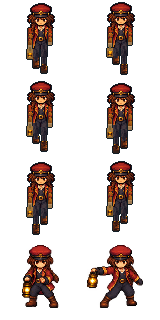
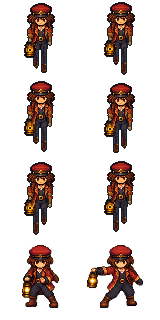
Give Nell her own contoured clothing and carrying pose

diff --git a/src/art/nell-actor.ts b/src/art/nell-actor.ts
@@ -1,15 +1,14 @@
 import { type ActorDirection } from '../content/actors';
-import { project, type Point3 } from './actor-space';
+import { orient, project, type Point3 } from './actor-space';
 import { renderLayers, type PixelTexture, type SpriteLayer } from './layered-sprite';
-import { referenceRig, weaponPoint, type ReferencePose, type WeaponPose } from './reference-rig';
-import { REFERENCE_FRAMES } from './walk-cycle';
-import { referenceLayers } from '../dev/reference-actor';
+import { FOREARM_LENGTH, referenceRig, UPPER_ARM_LENGTH, type ReferencePose, type WeaponPose } from './reference-rig';
+import { footPoint, REFERENCE_FRAMES, type FootPose } from './walk-cycle';
 
 export const NELL_LEG_LENGTH=12;
 export const NELL_HIP_DROP=5.8;
 export type NellTextures=Record<ActorDirection,PixelTexture>;
 
-/** Retarget only limb proportions. Keep the reference's feet, contacts and 40-pixel stride. */
+/** Retarget Nell's proportions and carry pose; retain the reference's foot contacts and stride. */
 export function nellPose(phase:number):ReferencePose {
   const pose=referenceRig(phase,'lantern'),drop=NELL_HIP_DROP;
   pose.hipHeight-=drop;
@@ -19,6 +18,11 @@ export function nellPose(phase:number):ReferencePose {
     leg.knee={x:leg.hip.x,y:dy/2-dz/d*bend,z:(leg.hip.z+leg.ankle.z)/2+dy/d*bend};
     for(const joint of ['shoulder','elbow','wrist','grip'] as const)pose.arms[side][joint]={...pose.arms[side][joint],z:pose.arms[side][joint].z-drop};
   }
+  // Nell carries her full-sized lantern at her waist with a bent elbow.
+  const arm=pose.arms.right;arm.grip={...arm.grip,z:arm.grip.z+6};arm.wrist={...arm.grip,z:arm.grip.z+1.6};
+  const dy=arm.wrist.y-arm.shoulder.y,dz=arm.wrist.z-arm.shoulder.z,d=Math.hypot(dy,dz);
+  const along=(UPPER_ARM_LENGTH**2-FOREARM_LENGTH**2+d*d)/(2*d),bend=Math.sqrt(UPPER_ARM_LENGTH**2-along*along);
+  arm.elbow={x:arm.shoulder.x,y:arm.shoulder.y+along*dy/d+bend*dz/d,z:arm.shoulder.z+along*dz/d-bend*dy/d};
   pose.weapon={...pose.weapon!,grip:pose.arms.right.grip};
   return pose;
 }
@@ -53,26 +57,72 @@ function decal(id:string,texture:PixelTexture,rect:readonly[number,number,number
     faces:[{points:[0,1,2,3],color:0xffffff,unlit:true,texture,uv:[{u:x,v:y},{u:x+w,v:y},{u:x+w,v:y+h},{u:x,v:y+h}]}]};
 }
 
-function cloth(layer:SpriteLayer,a:Point3,b:Point3,texture:PixelTexture):SpriteLayer {
-  const dy=b.y-a.y,dz=b.z-a.z,d=Math.hypot(dy,dz),xs=layer.vertices.map(p=>p.x),x0=Math.min(...xs),width=Math.max(...xs)-x0;
-  const across=(p:Point3)=>(-dz*(p.y-a.y)+dy*(p.z-a.z))/d;
-  const edge=Math.max(...layer.vertices.map(p=>Math.abs(across(p))));
-  for(const [index,face] of layer.faces.entries()){
-    face.texture=texture;face.unlit=true;
-    face.uv=face.points.map(i=>{const p=layer.vertices[i];return {u:(index<2?(across(p)/edge+1)/2:(p.x-x0)/width)*texture.width,
-      v:((p.y-a.y)*dy+(p.z-a.z)*dz)/(d*d)*texture.height};});
+interface SkinVertex { point:Point3;u:number;v:number }
+const ROUND_SIDES=12;
+
+/** A contoured skin surface, independent of the mannequin's rectangular parts. */
+function surface(id:string,rings:SkinVertex[][],color:number,texture?:PixelTexture):SpriteLayer {
+  const samples=rings.flat(),count=rings[0].length,faces:SpriteLayer['faces']=[];
+  const face=(points:number[])=>faces.push({points,color,texture,unlit:!!texture,uv:texture?points.map(i=>({u:samples[i].u,v:samples[i].v})):undefined});
+  for(let ring=0;ring<rings.length-1;ring++)for(let j=0;j<count;j++){
+    const next=(j+1)%count,a=ring*count,b=(ring+1)*count;face([a+j,a+next,b+next,b+j]);
   }
+  face(Array.from({length:count},(_,i)=>count-1-i));face(Array.from({length:count},(_,i)=>(rings.length-1)*count+i));
+  return {id,vertices:samples.map(s=>s.point),faces};
+}
+
+const acrossView=(direction:ActorDirection,c:number,s:number)=>direction==='front'?-c:direction==='back'?c:direction==='left'?-s:s;
+
+function limb(id:string,a:Point3,b:Point3,start:readonly[number,number],end:readonly[number,number],texture:PixelTexture,direction:ActorDirection):SpriteLayer {
+  const dy=b.y-a.y,dz=b.z-a.z,d=Math.hypot(dy,dz),ny=-dz/d,nz=dy/d;
+  const stations=[[-.09,.15],[0,.85],[.2,1.05],[.55,1],[.85,.98],[1,.8],[1.09,.15]] as const;
+  return surface(id,stations.map(([t,round])=>Array.from({length:ROUND_SIDES},(_,i)=>{
+    const angle=i/ROUND_SIDES*Math.PI*2,c=Math.cos(angle),s=Math.sin(angle),at=Math.max(0,Math.min(1,t));
+    const rx=(start[0]+(end[0]-start[0])*at)*round,ry=(start[1]+(end[1]-start[1])*at)*round;
+    return {point:{x:a.x+c*rx,y:a.y+dy*t+s*ry*ny,z:a.z+dz*t+s*ry*nz},
+      u:(acrossView(direction,c,s)+1)/2*texture.width,v:at*texture.height};
+  })),0xffffff,texture);
+}
+
+function rounded(id:string,center:Point3,radii:readonly[number,number,number],color:number):SpriteLayer {
+  const rings=Array.from({length:7},(_,row)=>{
+    const v=row/6,ring=Math.max(.04,Math.sin(v*Math.PI));
+    return Array.from({length:ROUND_SIDES},(_,i)=>{const angle=i/ROUND_SIDES*Math.PI*2;
+      return {point:{x:center.x+Math.cos(angle)*radii[0]*ring,y:center.y+Math.sin(angle)*radii[1]*ring,z:center.z+Math.cos(v*Math.PI)*radii[2]},u:0,v:0};});
+  });
+  return surface(id,rings,color);
+}
+
+function shoe(side:'left'|'right',foot:FootPose,texture:PixelTexture,direction:ActorDirection):SpriteLayer {
+  // Rounded heel, close ankle, raised instep and a low tapered toe. The two
+  // sole contact endpoints remain at the accepted heel/toe pivots.
+  const stations=[[-4,1.1,0,3.5],[-3.2,1.85,0,5.4],[-1.5,2.2,.05,6],[0,2.15,.15,5.4],[2.5,2.3,.15,4.1],[5.2,2.4,0,3.5],[6.9,1.6,0,2.8],[8,.3,0,1.5]] as const;
+  const height=Math.max(...stations.map(station=>station[3]));
+  const layer=surface(`${side}-foot`,stations.map(([y,width,bottom,top])=>Array.from({length:ROUND_SIDES},(_,i)=>{
+    const angle=i/ROUND_SIDES*Math.PI*2,x=Math.cos(angle)*width,z=(bottom+top)/2+Math.sin(angle)*(top-bottom)/2;
+    const p=footPoint(foot,y,z);p.x+=x;
+    const u=direction==='front'?-x/5+.5:direction==='back'?x/5+.5:direction==='left'?1-(y+4)/12:(y+4)/12;
+    return {point:p,u:u*texture.width,v:(1-z/height)*texture.height};
+  })),0xffffff,texture);
+  for(const face of layer.faces)if(face.uv!.every(p=>p.v>texture.height*.82)){face.texture=undefined;face.color=0x39251f;face.unlit=false;}
   return layer;
 }
 
-function cage(weapon:WeaponPose):SpriteLayer[]{
-  const result:SpriteLayer[]=[];
-  for(const x of [-2.5,2.5])for(const y of [-2.5,2.5]){
-    const vertices:Point3[]=[];
-    for(const z of [-10,-5])for(const dx of [-.4,.4])for(const dy of [-.4,.4])vertices.push(weaponPoint(weapon,y+dy,z,x+dx));
-    result.push({id:'right-weapon',vertices,faces:[[0,1,3,2],[4,5,7,6],[0,1,5,4],[2,3,7,6],[0,2,6,4],[1,3,7,5]].map(points=>({points,color:0x9f6a2d}))});
+function lantern(weapon:WeaponPose,source:PixelTexture,direction:ActorDirection):SpriteLayer[]{
+  const regions:Record<ActorDirection,readonly[number,number,number,number,number,number]>={front:[22,42,11,17,27,40],left:[28,45,7,14,31,42],right:[44,43,10,16,47,40],back:[46,43,11,16,51,41]};
+  const [x,y,width,height,gx,gy]=regions[direction],texture={...source,pixels:new Uint8ClampedArray(source.pixels)};
+  for(let row=0;row<80;row++)for(let col=0;col<80;col++){
+    const at=(row*80+col)*4,r=texture.pixels[at],g=texture.pixels[at+1],b=texture.pixels[at+2];
+    const warm=r>g*1.08&&r<g*3.5&&g>b*1.05,dark=Math.max(r,g,b)<40;
+    if(col<x||col>=x+width||row<y||row>=y+height||(!warm&&!dark))texture.pixels[at+3]=0;
   }
-  return result;
+  const grip=project(weapon.grip,direction),depth=orient(weapon.grip,direction).y;
+  const mesh=decal('right-weapon',texture,[x,y,width,height],0,depth,direction),c=Math.cos(weapon.pitch),s=Math.sin(weapon.pitch);
+  mesh.vertices=[[x,y],[x+width,y],[x+width,y+height],[x,y+height]].map(([sx,sy])=>{
+    const p=viewPoint(grip.x+sx-gx,grip.y+sy-gy,depth,direction),dy=p.y-weapon.grip.y,dz=p.z-weapon.grip.z;
+    return {x:p.x,y:weapon.grip.y+dy*c-dz*s,z:weapon.grip.z+dy*s+dz*c};
+  });
+  return [mesh];
 }
 
 /** Directional native pixels supply identity; joint geometry supplies every moving limb. */
@@ -85,32 +135,22 @@ export function nellLayers(pose:ReferencePose,direction:ActorDirection,textures:
     if(!hair)head.pixels[at+3]=0;
   }
   const trousers=patch(source,37,45,6,10,(r,g,b)=>r<g*1.4&&b>r*.8),sleeve=patch(source,direction==='right'?33:29,30,4,10,(r,g,b)=>r>g*1.7&&r>b*1.4&&r>65),boot=patch(source,37,58,6,9,(r,g,b)=>r>g*1.2&&g>b*1.1);
-  const lampRect:Record<ActorDirection,readonly[number,number,number,number]>={front:[23,47,8,10],left:[29,47,5,8],right:[45,47,8,10],back:[48,48,7,9]};
-  const lamp=patch(source,...lampRect[direction],(r,g,b)=>r>g*1.1&&g>b*1.1);
   // Keep cuffs visible and give the lower shin a boot shaft.
   const shin={...trousers,pixels:new Uint8ClampedArray(trousers.pixels)};
   for(let y=6;y<10;y++)for(let x=0;x<6;x++)shin.pixels.set(boot.pixels.subarray(((y-6)*6+x)*4,((y-6)*6+x)*4+4),(y*6+x)*4);
-  const layers=referenceLayers(pose,false).filter(layer=>layer.id!=='head'&&layer.id!=='torso');
-  for(const layer of layers){
-    const side=layer.id.startsWith('left-')?'left':'right',leg=pose[side],arm=pose.arms[side];
-    if(layer.id.endsWith('-thigh'))cloth(layer,leg.hip,leg.knee,trousers);
-    else if(layer.id.endsWith('-shin'))cloth(layer,leg.knee,leg.ankle,shin);
-    else if(layer.id.endsWith('-upper-arm'))cloth(layer,arm.shoulder,arm.elbow,sleeve);
-    else if(layer.id.endsWith('-forearm'))cloth(layer,arm.elbow,arm.wrist,sleeve);
-    else if(layer.id.endsWith('-hand'))for(const face of layer.faces)face.color=0xc59a68;
-    else if(layer.id.endsWith('-foot')||layer.id==='right-weapon'){
-      for(const face of layer.faces){
-        if(face.color===0x38434b){face.color=0x39251f;continue;}
-        if(layer.id==='right-weapon'&&face.color!==0xffd57d)continue;
-        const texture=layer.id==='right-weapon'?lamp:boot;
-        const projected=layer.vertices.map(p=>project(p,direction)),xx=projected.map(p=>p.x),yy=projected.map(p=>p.y),x0=Math.min(...xx),y0=Math.min(...yy),w=Math.max(...xx)-x0,h=Math.max(...yy)-y0;
-        face.texture=texture;face.unlit=true;face.uv=face.points.map(i=>({u:(projected[i].x-x0)/w*texture.width,v:(projected[i].y-y0)/h*texture.height}));
-      }
-    }
+  const layers:SpriteLayer[]=[];
+  for(const side of ['left','right'] as const){
+    const leg=pose[side],arm=pose.arms[side],inside=side==='right'?-1:1;
+    layers.push(limb(`${side}-thigh`,leg.hip,leg.knee,[2.8,2.6],[1.9,1.9],trousers,direction),
+      limb(`${side}-shin`,leg.knee,leg.ankle,[1.95,1.85],[1.7,1.55],shin,direction),shoe(side,leg.foot,boot,direction),
+      limb(`${side}-upper-arm`,arm.shoulder,arm.elbow,[2.1,2.05],[1.6,1.55],sleeve,direction),
+      limb(`${side}-forearm`,arm.elbow,arm.wrist,[1.65,1.55],[1.2,1.15],sleeve,direction),
+      rounded(`${side}-hand`,arm.grip,[1.45,1.3,1.65],0xc59a68),
+      rounded(`${side}-hand`,{x:arm.grip.x+inside*1.1,y:arm.grip.y+.7,z:arm.grip.z+.2},[.65,.75,.85],0xb38758));
   }
   const dy=30.3-(pose.hipHeight+NELL_HIP_DROP),bodyRect:readonly[number,number,number,number]=direction==='front'||direction==='back'?[33,27,14,22]:[34,27,12,22];
   layers.push(decal('torso',source,bodyRect,dy,4,direction),decal('head',head,[20,0,40,43],dy,7,direction));
-  layers.push(...cage(pose.weapon!));
+  layers.push(...lantern(pose.weapon!,source,direction));
   return layers;
 }
 export const renderNell=(frame:number,direction:ActorDirection,textures:NellTextures)=>renderLayers(nellLayers(nellFrame(frame),direction,textures),direction);

diff --git a/assets/characters/nell-rig.md b/assets/characters/nell-rig.md
@@ -1,8 +1,12 @@
 # Nell's reference-based walk
 
-`src/art/nell-actor.ts` skins the accepted mannequin rig. `nellPose` keeps its foot positions, heel/toe rotations and 40-pixel root travel, retargets both leg bones to 12 pixels, lowers the hips by 5.8 pixels, then solves forward-bending knees. Arm lengths and the right-hand lantern attachment remain rigid. Her face and costume retain the original compact proportions.
+`src/art/nell-actor.ts` uses the accepted reference's joint motion with Nell's own artwork geometry. `nellPose` keeps its foot positions, heel/toe rotations and 40-pixel root travel, retargets both leg bones to 12 pixels, lowers the hips by 5.8 pixels, then solves forward-bending knees. Her right grip sits six pixels higher than the lowered reference grip; a second arm solve keeps the 9/8-pixel bones rigid while bending her elbow to carry the full-sized lantern at her waist. The weapon remains attached to the right grip in every view.
 
-The four existing `public/art/nell*.png` idle actors supply independent directional skins. The exporter prepares four 80 x 80 skins in `assets/characters/nell-skin/`, copying source RGB and setting alpha to 0 or 255 at the existing 128 threshold. Both the workshop and exporter use these canonical pixels, avoiding canvas premultiplication rounding at partially transparent edges. Head/cap/face pixels keep their native size and move together vertically with the hips. Masked braid pixels remain attached to the head; the central jacket/overalls retain the original torso details. Moving upper arms, forearms, thighs, shins and boots are textured from small garment patches. Transparent samples in these solid material patches use the nearest valid garment sample. The lantern has native warm glass pixels and modeled brass cage bars. No direction is mirrored.
+Nell does not use the mannequin's rectangular limb, hand, foot or weapon meshes. Her clothing is built from rounded cross-sections with separate shoulder, upper-arm, elbow, forearm, thigh, calf and ankle contours. Rounded ends overlap at joints. Sleeves and trouser legs taper toward wrists and ankles. Gloves have rounded palms and separate thumbs. Boots have a narrow heel, raised instep, curved sole and a low rounded toe; both contact endpoints retain the accepted heel/toe pivots. These contours affect only the artwork, not bone lengths or foot contact timing.
+
+The four existing `public/art/nell*.png` idle actors supply independent directional skins. The exporter prepares four 80 x 80 skins in `assets/characters/nell-skin/`, copying source RGB and setting alpha to 0 or 255 at the existing 128 threshold. Both the workshop and exporter use these canonical pixels, avoiding canvas premultiplication rounding at partially transparent edges. Head/cap/face pixels keep their native size and move together vertically with the hips. Masked braid pixels remain attached to the head; the central jacket/overalls retain the original torso details. Moving upper arms, forearms, thighs, shins and boots are textured from small garment patches. Transparent samples in these solid material patches use the nearest valid garment sample.
+
+The lantern uses the original per-view native artwork, with a registered source grip and a mask excluding adjacent clothing. Its textured plane attaches at the right grip and rotates around it with the weapon's pitch. Its existing brass frame, glass, flame and handle retain the source's pixel shapes instead of inheriting the placeholder's box geometry. Depth-buffer occlusion hides the far-side tool naturally. No direction is mirrored.
 
 `src/art/layered-sprite.ts` supports nearest-neighbor textured faces alongside solid materials. Texture alpha participates in the depth buffer: transparent head/costume pixels leave farther limbs visible, while the near arm can occlude the torso. Source RGB values are copied without blending or palette reduction. The assembled silhouette receives the same one-pixel outline as the reference.
 

diff --git a/assets/characters/animation.md b/assets/characters/animation.md
@@ -2,7 +2,7 @@
 
 Nell's walk is baked from the accepted layered reference with her original native face, cap, braids and costume pixels attached as a skin. Orrin retains his generated directional walk art. Idle actors and portraits remain unchanged. Each direction has one 160 x 320 PNG page containing eight 80 x 80 frames. Frames 0–5 are a complete six-frame walk: left contact, left support, right passing, right contact, right support, left passing. Frames 6–7 retain the existing native wind-up/contact artwork. Ground anchor remains (40, 68). Neither side view is mirrored; equipment stays in the right hand through every pose.
 
-`animation-sources.json` records Nell's rig/exporter, Orrin's selected six-pose sources and the original attack sources. Nell's deterministic authoring source is `src/art/nell-actor.ts`: twelve-pixel leg bones retarget her compact proportions while keeping the reference's foot targets, heel/toe roll, right-hand grip and 40-pixel stride. The textured native renderer samples source pixels without blending; transparent texels do not hide farther parts. Face, costume and braid pixels come from the four existing native idle sprites, with no new source atlas or downsampling of the face. See `nell-rig.md` for the layer/material recipe.
+`animation-sources.json` records Nell's rig/exporter, Orrin's selected six-pose sources and the original attack sources. Nell's deterministic authoring source is `src/art/nell-actor.ts`: twelve-pixel leg bones retarget her compact proportions while keeping the reference's foot targets, heel/toe roll and 40-pixel stride. Her own rounded, tapered clothing/glove/boot meshes follow those joints; the mannequin's block geometry is not used. A bent right elbow holds the original native lantern artwork at waist height. The textured native renderer samples source pixels without blending; transparent texels do not hide farther parts. Face, costume and braid pixels come from the four existing native idle sprites, with no new source atlas or downsampling of the face. See `nell-rig.md` for the layer/material recipe.
 
 Run `node scripts/export-nell-animation.mjs` to rebuild Nell's four native pages from the rig and idle skins. It requires the existing development dependencies plus Python/Pillow and preserves the final native attack row verbatim. The Animation workshop's **Nell** skin uses the same geometry, textures and renderer, with independently visible/exportable body, limb and weapon layers. Gameplay consumes only the baked PNGs.
 

diff --git a/AGENTS.md b/AGENTS.md
@@ -45,3 +45,5 @@ The sprite workshop catalog includes every registered NPC plus the combat enemy 
 The Vite-only Animation panel (`?dev=animation`) contains a layered reference, separate from story characters. Its fixed parts, named joints and deterministic six-pose gait are the starting point for future character animation. Feet have shaped uppers and soles, rotating from heel strike to flat support to toe-off. Keep both 15-pixel leg bones rigid, the active heel/toe contact fixed in world space, both sole ends above the floor, at least one foot supporting weight, and anatomical sides invariant across views. Arms have separate upper-arm/forearm/hand layers, rigid 9/8-pixel bones and named shoulder/elbow/wrist/grip joints. Unarmed, Nell lantern and Orrin steam-lance presets use the same body; weapons attach only to the anatomical right grip, with depth-buffer occlusion in all four views. Do not mirror or swap attachment sides. The Arms and weapon toggle restores the accepted armless reference. Source/model notes live in `assets/characters/reference-animation.md`. Native PNG exports honor layer visibility and identify the weapon preset; pose JSON includes root travel, leg/arm joints, foot landmarks/pitch/contact state and the right-hand weapon attachment. This panel never writes saves or builds and must be absent from production.
 
 The twelve NPCs and Inspector share the party's compact pixel style. Supporting-cast source sheets, size budgets and briefs are recorded in `assets/characters/supporting-cast.json` and `supporting-prompts.md`. Keep the NPC identities and enemy archetypes distinct, including Elspeth's complete wheelchair and the three wardens' different mechanisms. Replacement actors share the row-68 ground guide. Hound, Crow and Guardian retain their original native artwork and placement; do not replace them with the rejected resampled versions.
+
+The reference supplies motion for Nell, not her artwork solids. Nell has independently contoured sleeves/trousers, overlapping rounded joints, shaped gloves/thumbs and boots with a narrow heel, instep and tapered toe. Do not reuse the mannequin's rectangular limb/hand/foot meshes for character art. Her native directional lantern cutouts attach to a bent right arm at waist height, with depth occlusion and pitch around the registered right grip. Keep source RGB and native pixel sizes intact; render the detailed art from these character-specific shapes.

diff --git a/assets/characters/reference-animation.md b/assets/characters/reference-animation.md
@@ -10,7 +10,7 @@ Open `?dev=animation` in Vite or choose **Animation** in the workshop. The manne
 
 `src/art/layered-sprite.ts` rasterizes editable part geometry with a depth buffer. Parts occlude one another according to their actual positions, including when the legs cross. The silhouette has a one-pixel outline. Every output pixel is opaque or transparent; there is no antialiasing or runtime fitting of the frame.
 
-Nell attaches her native face/cap/braids and costume pixels to the same layered renderer, with twelve-pixel leg bones retargeted to her compact proportions. Her foot trajectories and right-hand grip use the accepted reference motion. Canonical 80 x 80 skin textures preserve source RGB with crisp alpha, so browser previews match the baked game frames exactly. Anatomy colors are disabled for this actual-art skin; joint guides still identify each side. See `nell-rig.md` for the source and export recipe. Gameplay uses the small baked PNG pages and does not load this authoring model.
+Nell attaches her native face/cap/braids and costume pixels to her own rounded clothing, glove and boot meshes, with twelve-pixel leg bones retargeted to her compact proportions. The reference supplies joint and foot motion; Nell does not reuse its rectangular placeholder solids. Her carrying elbow bends to hold the original native lantern artwork at her waist, attached to the anatomical right grip. Canonical 80 x 80 skin textures preserve source RGB with crisp alpha, so browser previews match the baked game frames exactly. Anatomy colors are disabled for this actual-art skin; joint guides still identify each side. See `nell-rig.md` for the source and export recipe. Gameplay uses the small baked PNG pages and does not load this authoring model.
 
 ## Gait
 
